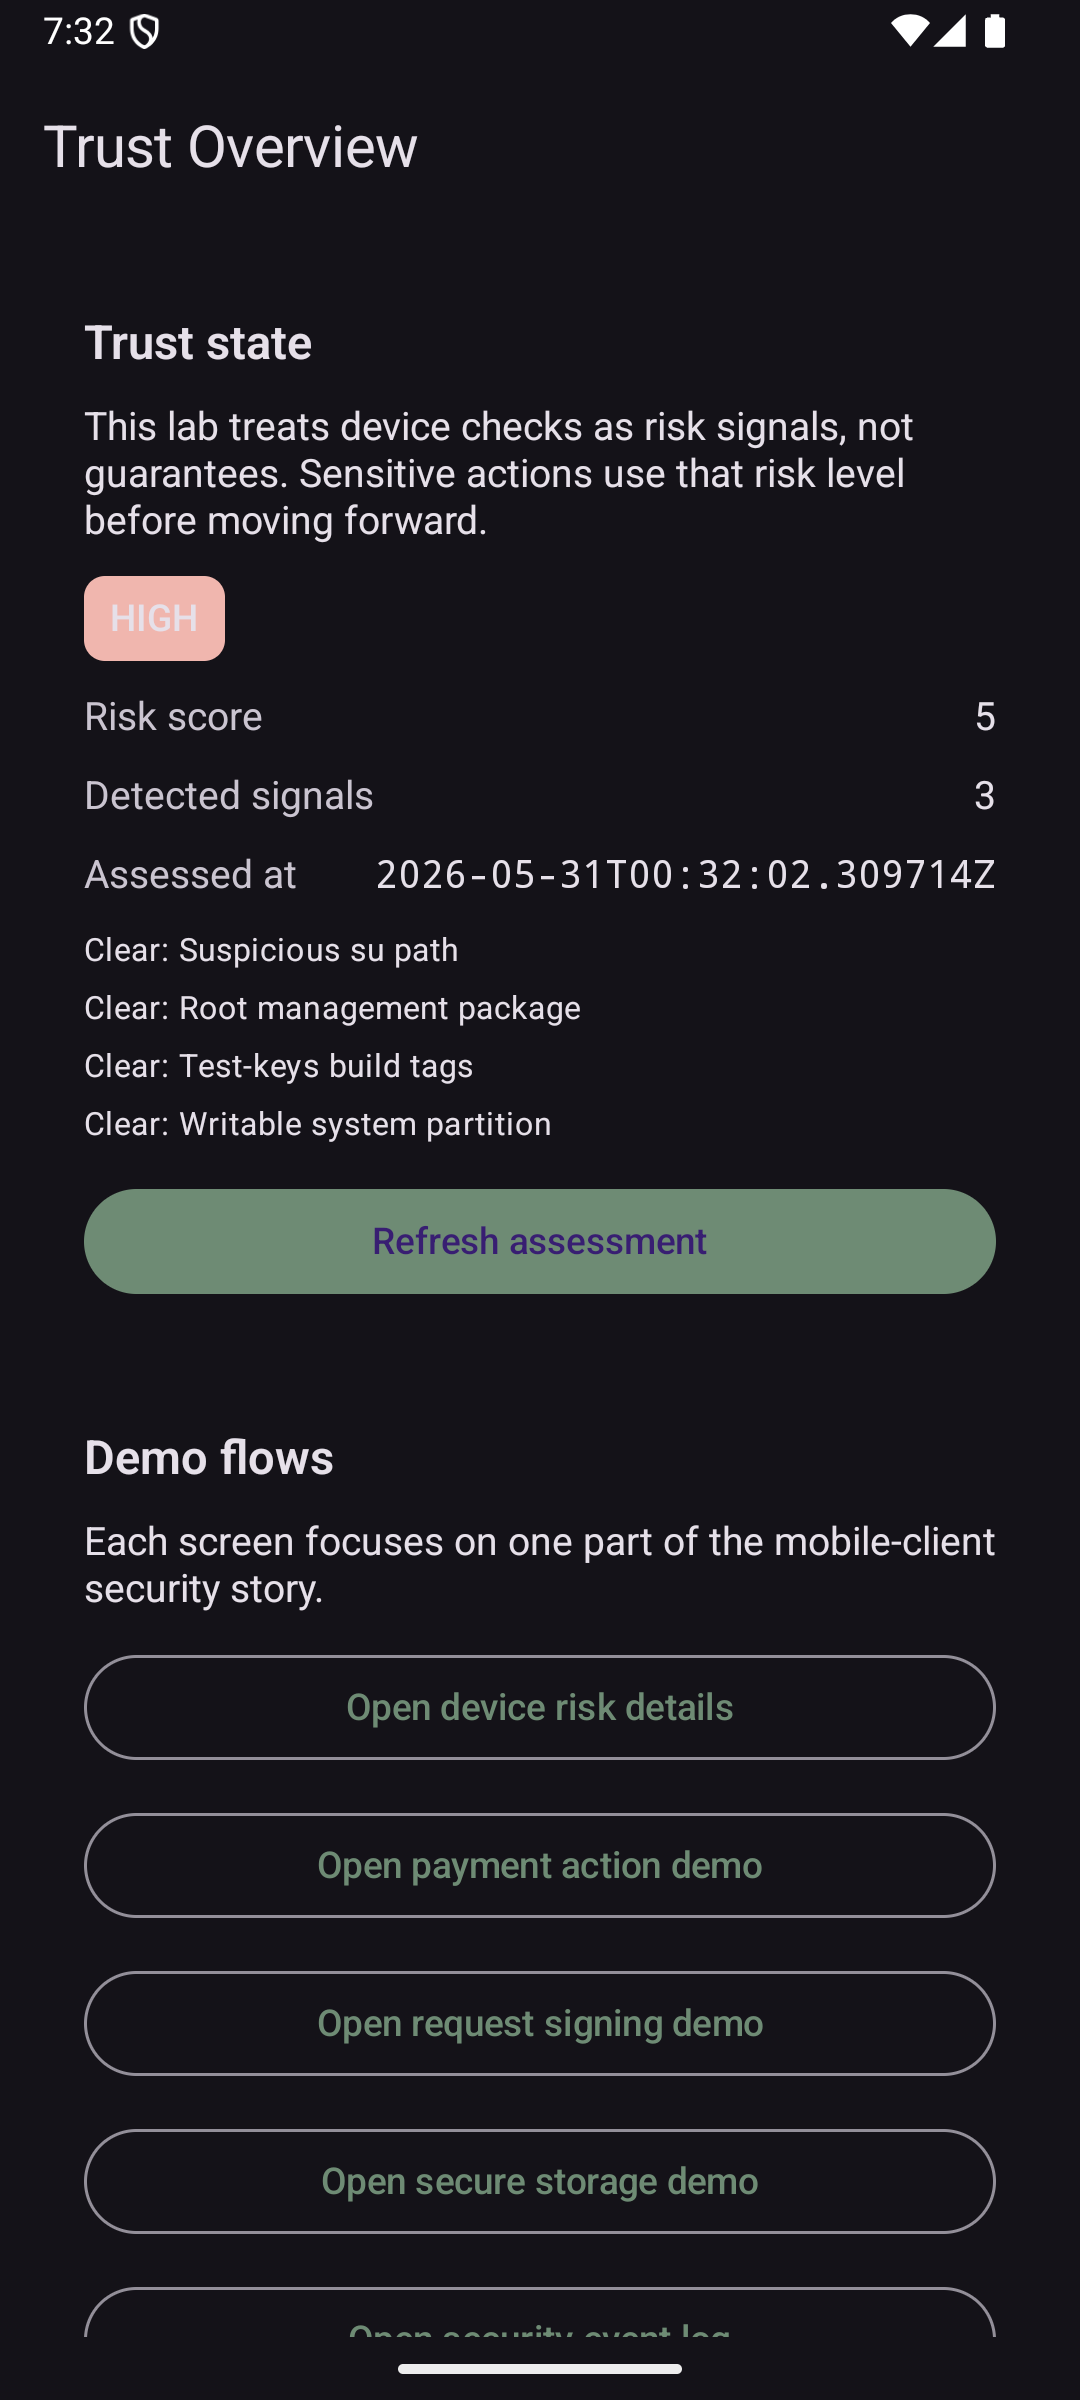
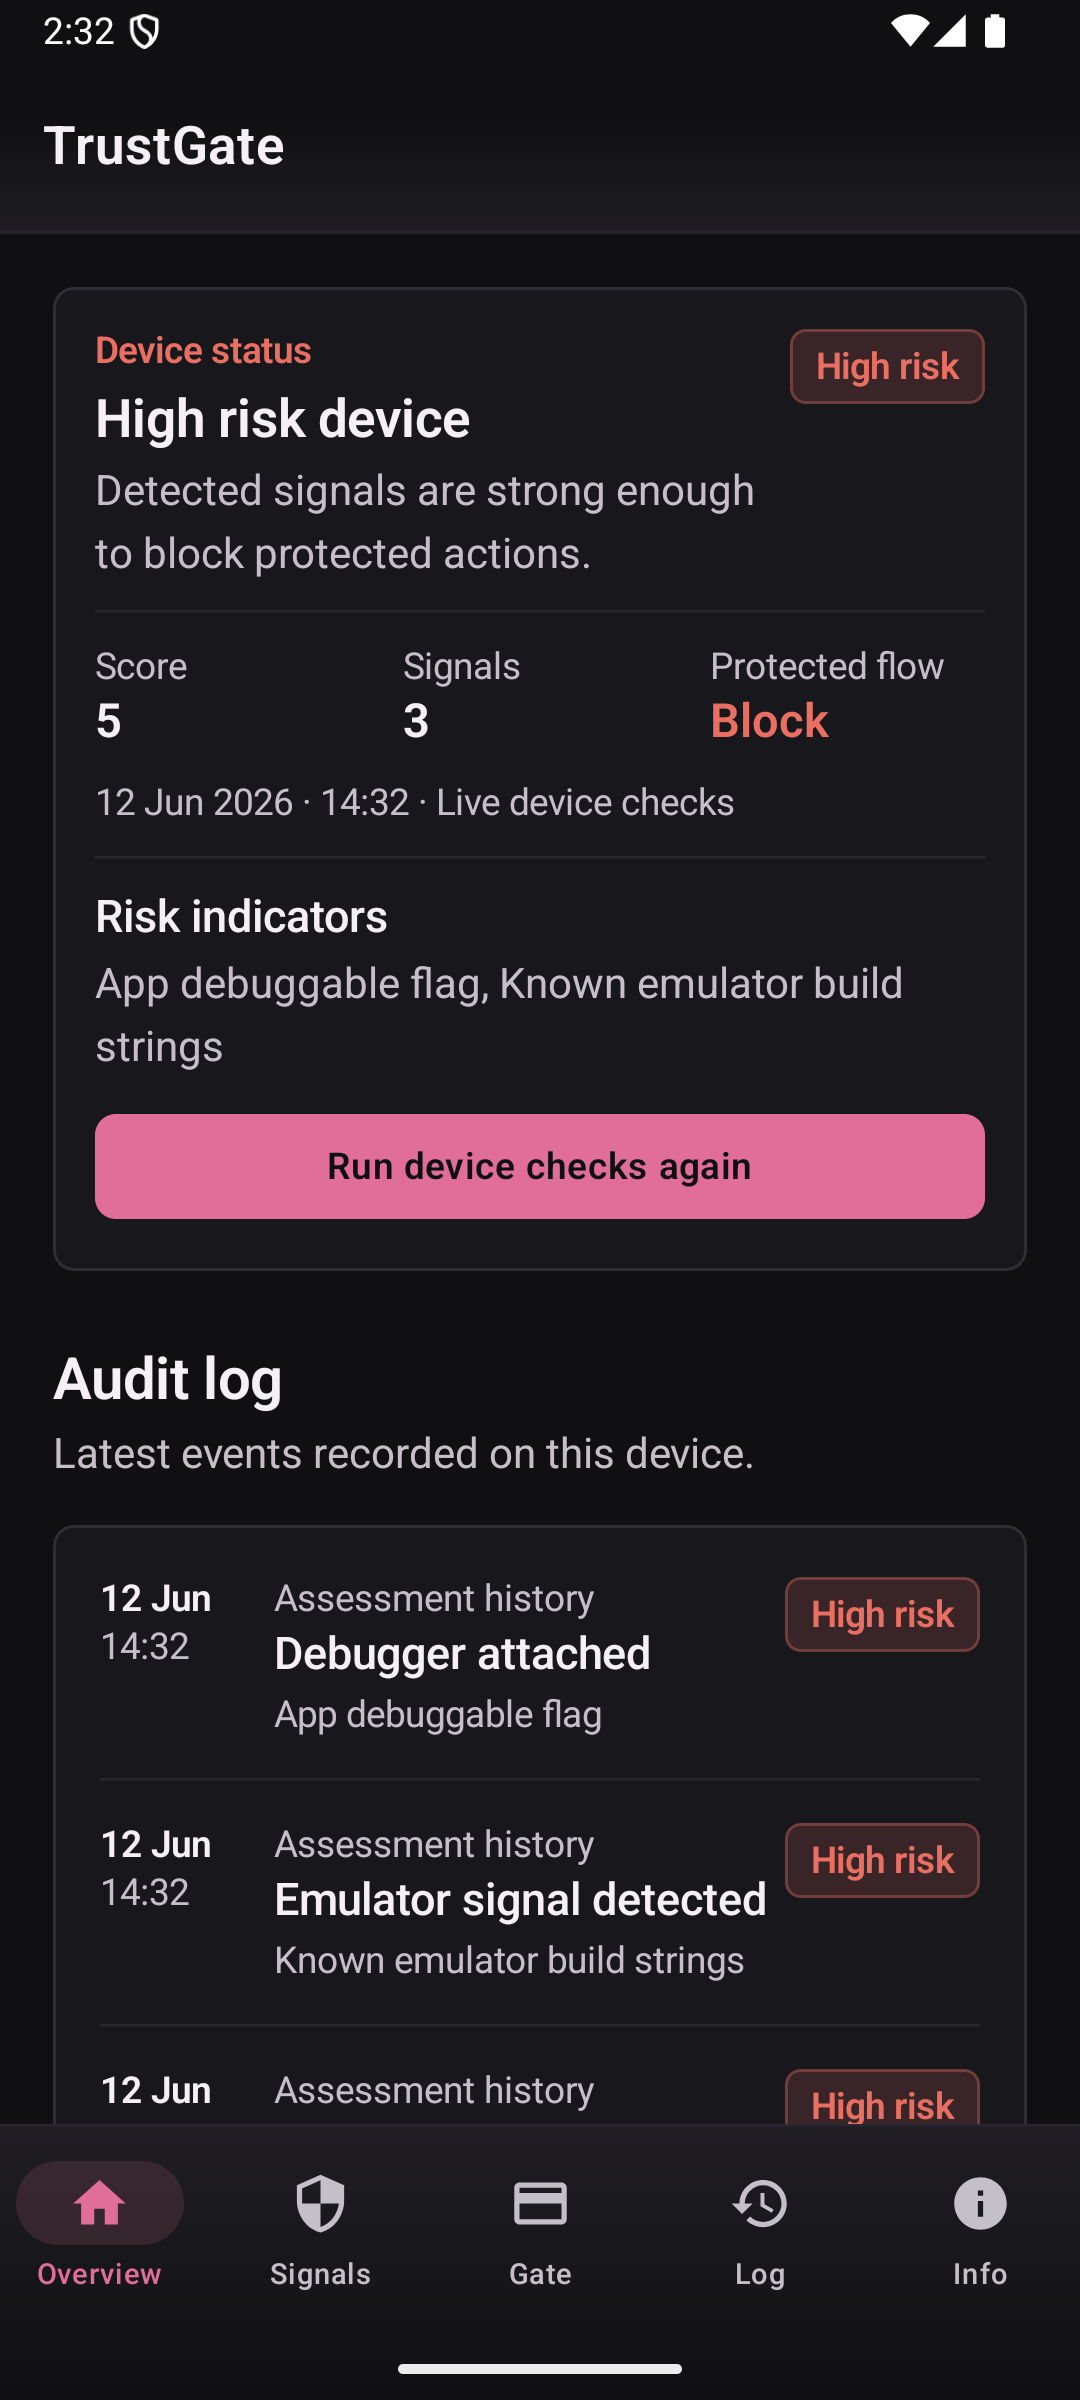
documentation: refresh screenshots and workflow docs

diff --git a/app/src/test/java/id/fatarc/trustgate/domain/risk/ScenarioRiskReportsTest.kt b/app/src/test/java/id/fatarc/trustgate/domain/risk/ScenarioRiskReportsTest.kt
@@ -3,18 +3,18 @@ package id.fatarc.trustgate.domain.risk
 import com.google.common.truth.Truth.assertThat
 import org.junit.Test
 
-class DemoRiskReportsTest {
+class ScenarioRiskReportsTest {
     @Test
-    fun `low demo profile stays low risk`() {
-        val report = demoRiskReport(DeviceRiskLevel.LOW)
+    fun `low scenario profile stays low risk`() {
+        val report = scenarioRiskReport(DeviceRiskLevel.LOW)
 
         assertThat(report.level).isEqualTo(DeviceRiskLevel.LOW)
         assertThat(report.signals.any { it.detected }).isFalse()
     }
 
     @Test
-    fun `high demo profile stays high risk`() {
-        val report = demoRiskReport(DeviceRiskLevel.HIGH)
+    fun `high scenario profile stays high risk`() {
+        val report = scenarioRiskReport(DeviceRiskLevel.HIGH)
 
         assertThat(report.level).isEqualTo(DeviceRiskLevel.HIGH)
         assertThat(report.signals.count { it.detected }).isAtLeast(1)

diff --git a/docs/SCREENSHOT_GUIDE.md b/docs/SCREENSHOT_GUIDE.md
@@ -4,13 +4,13 @@ Capture screenshots only from a working app, a real command run, or a live GitHu
 
 | Filename | Screen or command | What it proves | Capture notes |
 | --- | --- | --- |
-| `docs/screenshots/01-app-overview.png` | Home / Trust Overview | The app launches and shows current trust state | Cold-start the app on the emulator and capture the overview without system dialogs on screen. |
-| `docs/screenshots/02-device-risk-details.png` | Device Risk Details | Risk signals are visible with severity and explanation | Open `Device Risk Details` from the overview and capture the first visible risk cards. |
-| `docs/screenshots/03-sensitive-action-allowed.png` | Payment Action Demo on `LOW` | Low-risk device allows the action | In the payment demo, select the `Low` demo risk, run `Create demo payment`, and capture the updated `Latest decision`. |
-| `docs/screenshots/04-sensitive-action-blocked.png` | Payment Action Demo on `HIGH` | High-risk device blocks the action | In the payment demo, select the `High` demo risk, run `Create demo payment`, and capture the blocked decision state. |
-| `docs/screenshots/05-request-signing-demo.png` | Request Signing Demo | Signed headers, nonce, timestamp, and body hash are shown | Tap `Sign demo request` first so the signed request fields and canonical body are visible. |
-| `docs/screenshots/06-secure-storage-demo.png` | Secure Storage Demo | Mock values are stored and visible in the UI | Tap `Store demo values` before capture so the encrypted values and confirmation message are populated. |
-| `docs/screenshots/07-security-event-log.png` | Security Event Log | Event trail records assessments and decisions | Capture after visiting the payment, signing, and storage demos so the log contains varied events. |
+| `docs/screenshots/01-app-overview.png` | Overview | The app launches and shows current trust state, recent audit history, and bottom navigation | Cold-start the app on the emulator and capture the overview without system dialogs on screen. |
+| `docs/screenshots/02-device-risk-details.png` | Signals | Risk signals are visible with severity and explanation | Open the `Signals` tab and capture the first visible risk cards. |
+| `docs/screenshots/03-sensitive-action-allowed.png` | Sensitive Action Gate on `LOW` | Low-risk scenario allows the protected action | Open `Gate`, choose `Sensitive Action Gate`, select `Low risk`, run `Run protected action`, and capture the allowed decision state. |
+| `docs/screenshots/04-sensitive-action-blocked.png` | Sensitive Action Gate on `HIGH` | High-risk scenario blocks the protected action | Open `Gate`, choose `Sensitive Action Gate`, select `High risk`, run `Run protected action`, and capture the blocked decision state. |
+| `docs/screenshots/05-request-signing-reference.png` | Request Signing | Signed headers, nonce, timestamp, and body hash are shown | Open `Gate`, choose `Request Signing`, tap `Sign reference request`, and scroll until the signed request fields are visible. |
+| `docs/screenshots/06-secure-storage-reference.png` | Secure Storage | Reference values are stored and visible in the UI | Open `Gate`, choose `Secure Storage`, tap `Store reference values`, and capture the stored values section. |
+| `docs/screenshots/07-security-event-log.png` | Security Event Log | Event trail records assessments and decisions | Capture after visiting the protected action, signing, and storage workflows so the log contains varied events. |
 | `docs/screenshots/08-tests-passing.png` | `./gradlew test --console=plain` output | Unit tests pass | Use a fresh successful test run and capture the real command output, including `BUILD SUCCESSFUL`. |
 | `docs/screenshots/09-ci-passing.png` | GitHub Actions run summary | CI is green on the repository | Capture the successful `Android CI` summary page for the screenshot branch so the branch name, status, and jobs are visible. |
 | `docs/screenshots/10-repo-overview.png` | GitHub branch page | Public repo structure and docs are in place | Capture the branch tree view on GitHub so the branch selector, folders, and README preview are visible together. |

diff --git a/README.md b/README.md
@@ -10,7 +10,7 @@ It is not a banking app and it is not bypass-proof security. It is a public-safe
 - Risk-based gating for a payment-like action
 - Local security event logging that explains decisions taken by the app
 - HMAC request signing shape with deterministic tests
-- Encrypted local storage for mock session and risk state
+- Encrypted local storage for reference session and risk state
 - Certificate pinning example code that stays disabled by default
 - Kotlin-first Android structure with unit tests and CI
 
@@ -20,14 +20,19 @@ It is not a banking app and it is not bypass-proof security. It is a public-safe
 flowchart TD
     A[App Launch] --> B[Assess Device Risk]
     B --> C[Show Trust State]
-    C --> D[Sensitive Action]
-    D --> E[Risk Gate]
-    E --> F[Allow]
-    E --> G[Require Confirmation]
-    E --> H[Block]
-    F --> I[Security Event Log]
-    G --> I
-    H --> I
+    C --> D[Bottom Navigation]
+    D --> E[Signals]
+    D --> F[Gate Hub]
+    D --> G[Security Event Log]
+    F --> H[Sensitive Action Gate]
+    F --> I[Request Signing]
+    F --> J[Secure Storage]
+    H --> K[Allow]
+    H --> L[Require Confirmation]
+    H --> M[Block]
+    K --> G
+    L --> G
+    M --> G
 ```
 
 ## Screenshots
@@ -44,8 +49,8 @@ Real screenshots for the app, tests, CI, and repository are committed under [`do
     <td><img src="docs/screenshots/04-sensitive-action-blocked.png" width="320" alt="Sensitive action blocked" /><br />Sensitive action blocked</td>
   </tr>
   <tr>
-    <td><img src="docs/screenshots/05-request-signing-demo.png" width="320" alt="Request signing demo" /><br />Request signing demo</td>
-    <td><img src="docs/screenshots/06-secure-storage-demo.png" width="320" alt="Secure storage demo" /><br />Secure storage demo</td>
+    <td><img src="docs/screenshots/05-request-signing-reference.png" width="320" alt="Request signing reference flow" /><br />Request signing reference flow</td>
+    <td><img src="docs/screenshots/06-secure-storage-reference.png" width="320" alt="Secure storage reference values" /><br />Secure storage reference values</td>
   </tr>
   <tr>
     <td><img src="docs/screenshots/07-security-event-log.png" width="320" alt="Security event log" /><br />Security event log</td>
@@ -61,9 +66,9 @@ Real screenshots for the app, tests, CI, and repository are committed under [`do
 
 The app treats client-side checks as risk signals. A rooted, emulated, or debug-exposed environment does not prove malicious behavior, but it does justify more caution before allowing a sensitive action.
 
-The request-signing flow demonstrates canonical request construction, body hashing, timestamp and nonce headers, and an HMAC signature. The demo key is intentionally local and hardcoded so the limitation is explicit.
+The request-signing flow shows canonical request construction, body hashing, timestamp and nonce headers, and an HMAC signature. The reference key is intentionally local and hardcoded so the limitation is explicit.
 
-Encrypted local storage keeps a mock session token, the last assessed risk level, and a small UI preference away from plain shared preferences.
+Encrypted local storage keeps a reference session token, the last assessed risk level, and a small UI preference away from plain shared preferences.
 
 ## Run Locally
 
@@ -111,6 +116,7 @@ app/src/main/java/id/fatarc/trustgate/
 └── ui/
     ├── about/
     ├── events/
+    ├── gate/
     ├── home/
     ├── payment/
     ├── risk/

diff --git a/docs/SECURITY_MODEL.md b/docs/SECURITY_MODEL.md
@@ -32,7 +32,7 @@ The app keeps a local event log so the user can see why an action was allowed, e
 
 The app stores:
 
-- A mock session token
+- A reference session token
 - The last assessed risk level
 - A harmless UI preference
 
@@ -40,13 +40,12 @@ These values live in encrypted shared preferences through Jetpack Security.
 
 ## Request signing
 
-The signing demo builds a canonical request body, hashes that body, and signs request inputs with HMAC-SHA256. This shows the shape of a signed request but does not claim safe production key management.
+The request-signing workflow builds a canonical request body, hashes that body, and signs request inputs with HMAC-SHA256. This shows the shape of a signed request but does not claim safe production key management.
 
 ## Certificate pinning
 
-The repo includes a disabled-by-default OkHttp certificate pinning example. It is present to discuss pinning tradeoffs, not to force a fragile network setup into the demo.
+The repo includes a disabled-by-default OkHttp certificate pinning example. It is present to discuss pinning tradeoffs, not to force a fragile network setup into the reference build.
 
 ## Layered defense, not absolute security
 
 TrustGate Android uses layers: risk signals, user confirmation, local encryption, request-signing shape, and audit-style events. None of those layers are enough on their own, and none of them make the client authoritative.
-

diff --git a/docs/THREAT_MODEL.md b/docs/THREAT_MODEL.md
@@ -2,7 +2,7 @@
 
 ## What the app protects
 
-TrustGate Android protects a payment-like action from being treated the same on every device state. The app also protects a few mock local values from plain-text storage.
+TrustGate Android protects a payment-like action from being treated the same on every device state. The app also protects a few reference local values from plain-text storage.
 
 ## Attacker assumptions
 
@@ -39,4 +39,3 @@ TrustGate Android protects a payment-like action from being treated the same on 
 ## Why client-side checks are only signals
 
 The app can inspect its own environment, but it cannot prove that the environment is honest. A determined attacker can hide or bypass many checks. That is why TrustGate Android uses risk levels and layered controls instead of claiming absolute enforcement.
-

diff --git a/docs/LIMITATIONS.md b/docs/LIMITATIONS.md
@@ -3,8 +3,7 @@
 - TrustGate Android does not claim bypass-proof client security.
 - The app does not connect to a real payment processor or bank system.
 - Device checks are heuristic signals and can be hidden or bypassed by a determined attacker.
-- Request signing uses a demo-only local key and does not represent production key custody.
+- Request signing uses a reference local key and does not represent production key custody.
 - There is no live Play Integrity or server attestation validation flow in this repo.
 - Certificate pinning is implemented as an example and would need rotation planning in a real deployment.
 - The event log is local to the device. It is useful for explanation, not for tamper-proof forensics.
-
